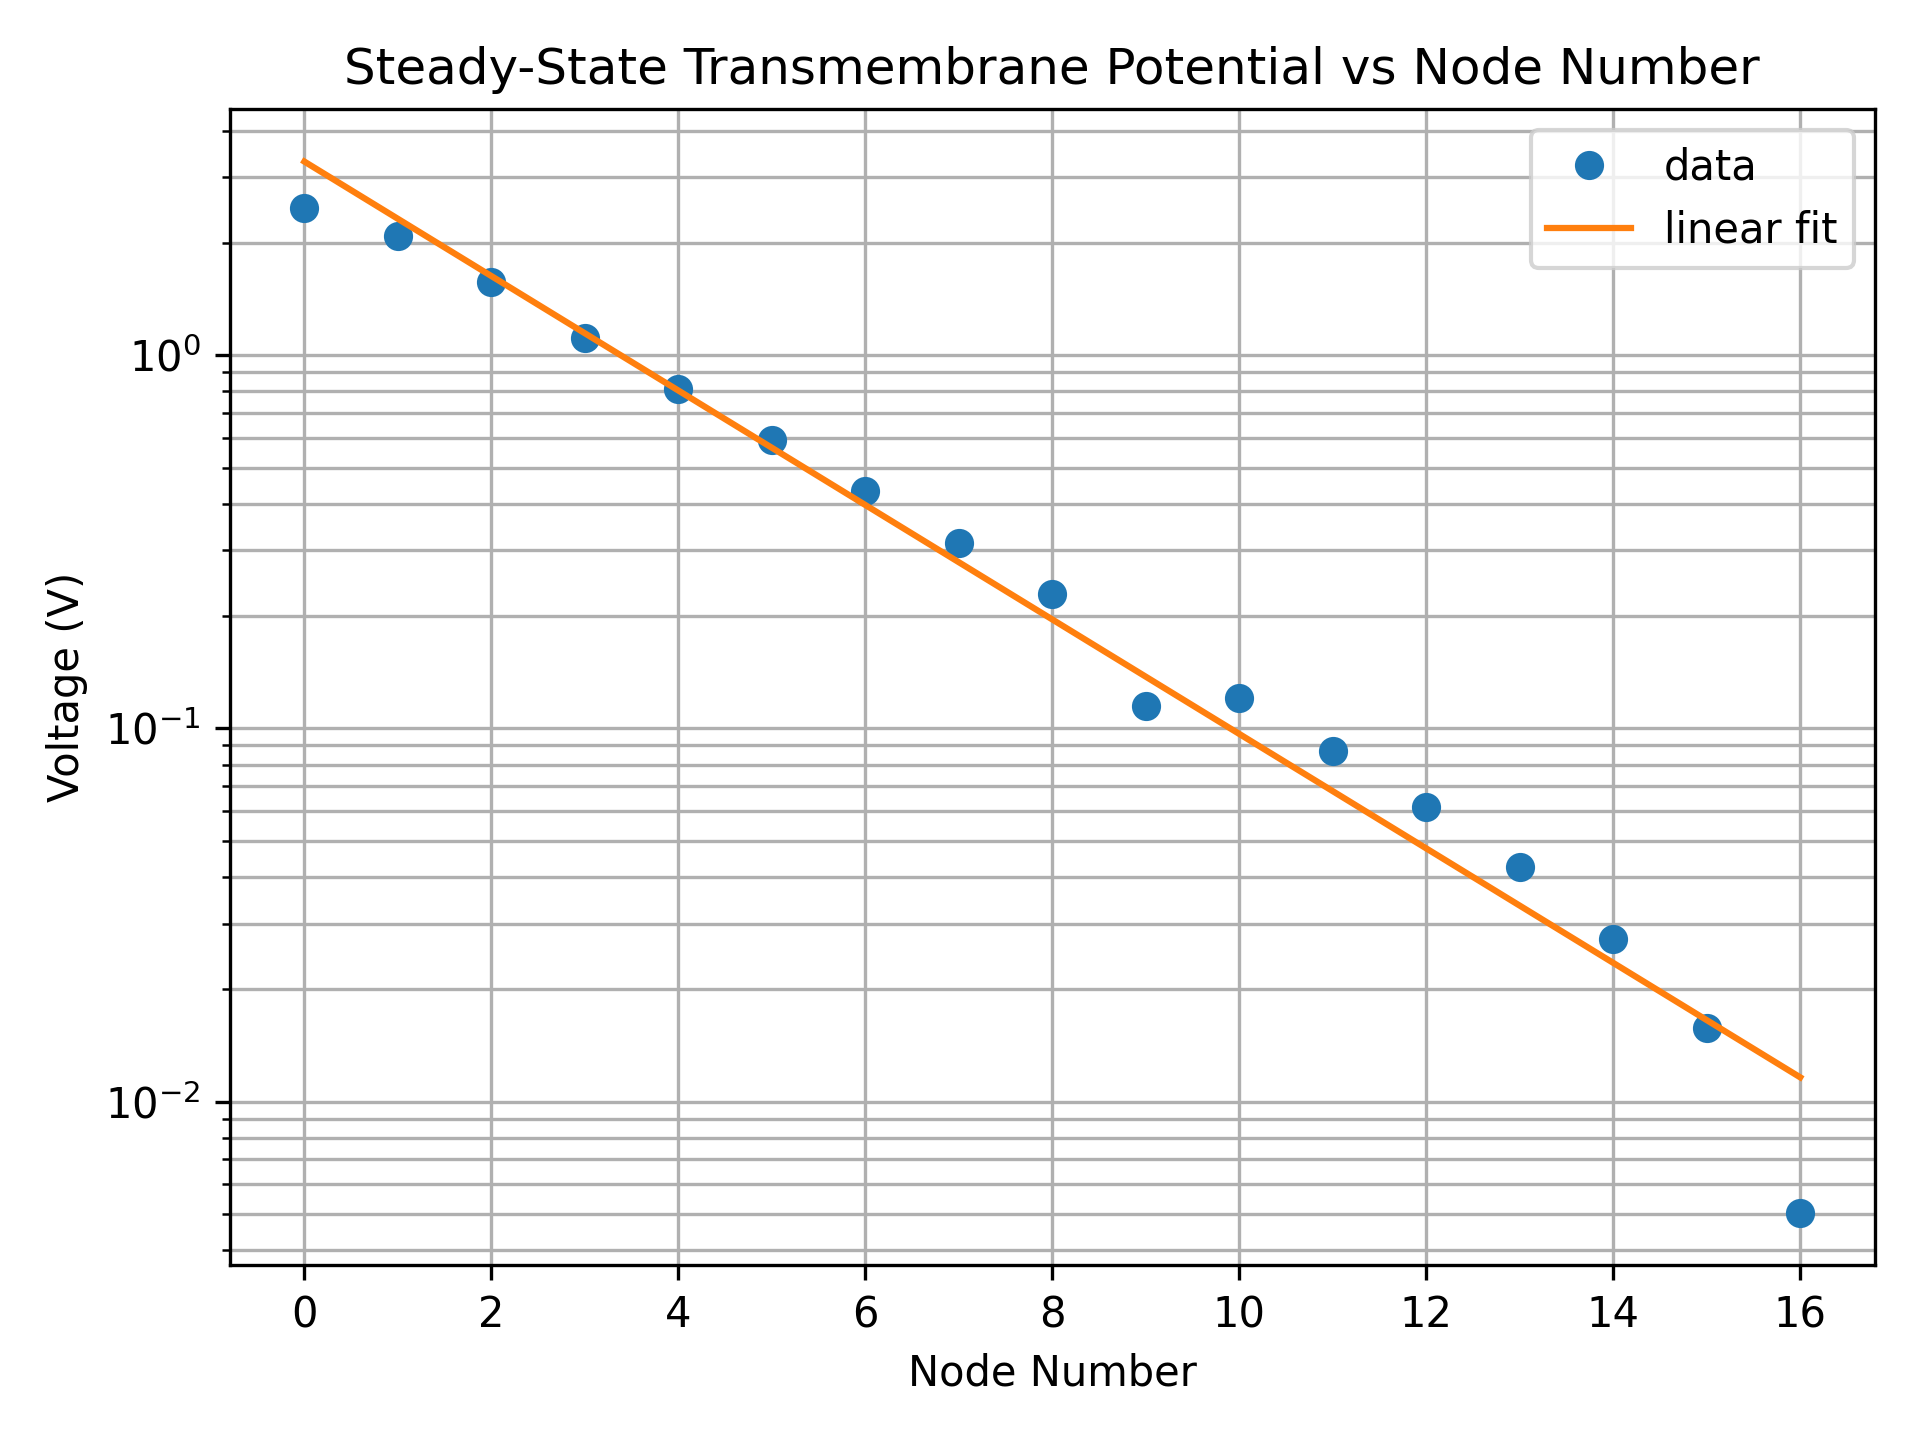
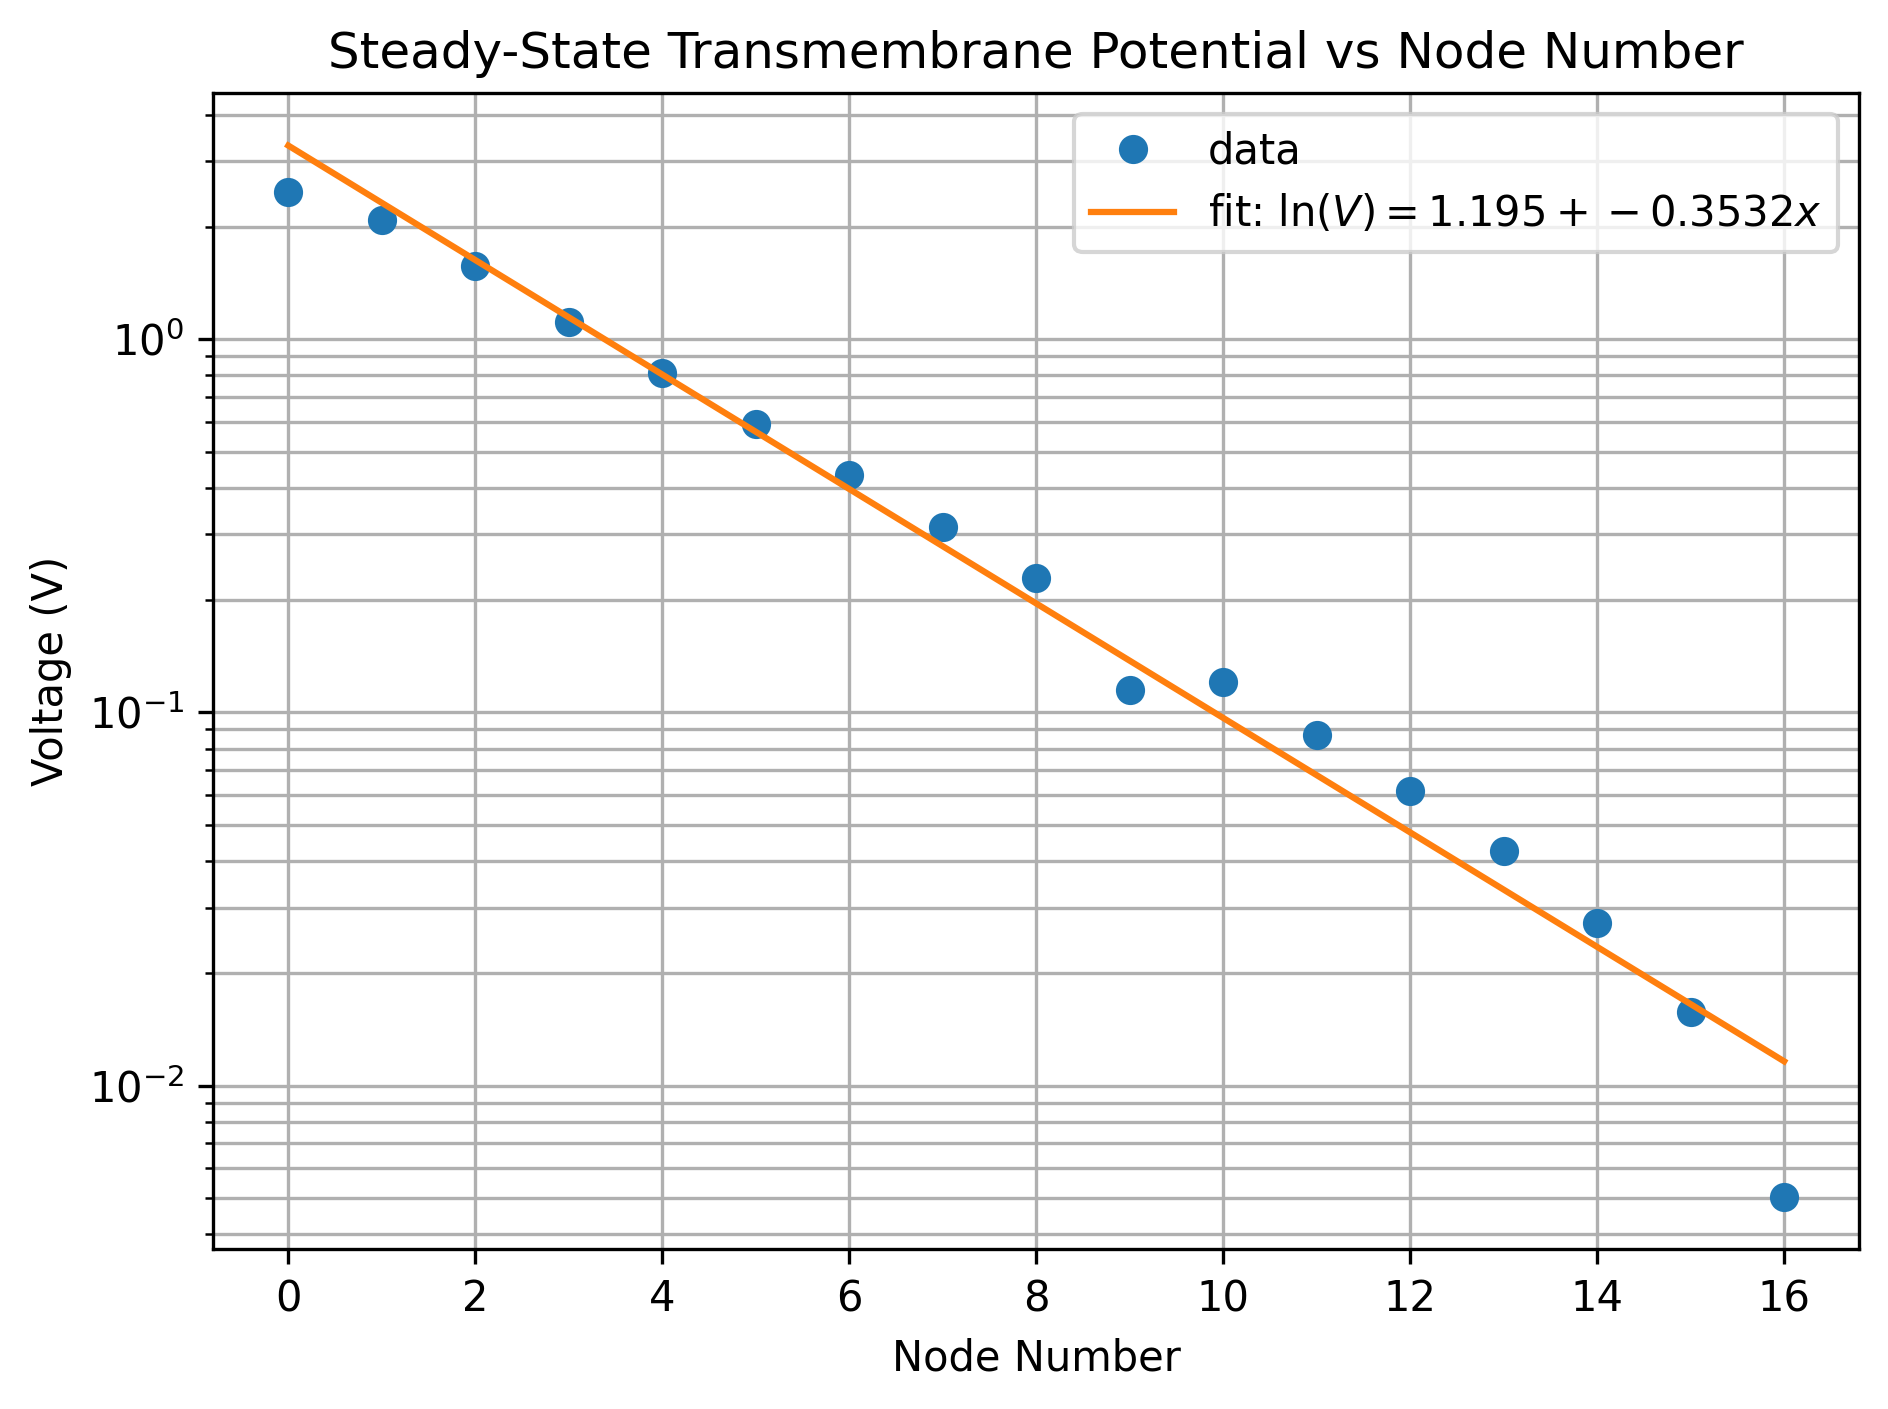
deleted unneeded table 3 slide and added image updates

Changed region(s): [[0.0, 0.0312, 1.0, 0.9681]]

diff --git a/src/main.py b/src/main.py
@@ -69,6 +69,3 @@ results_t2 = analyze_steady_state(
     IMG_DIR / "table_2_analysis.png",
     title="Square Wave Steady-State Transmembrane Potential vs Node Number",
 )
-
-
-# ── Table 3 Analysis ─────────────────────────────────────────────────────────
